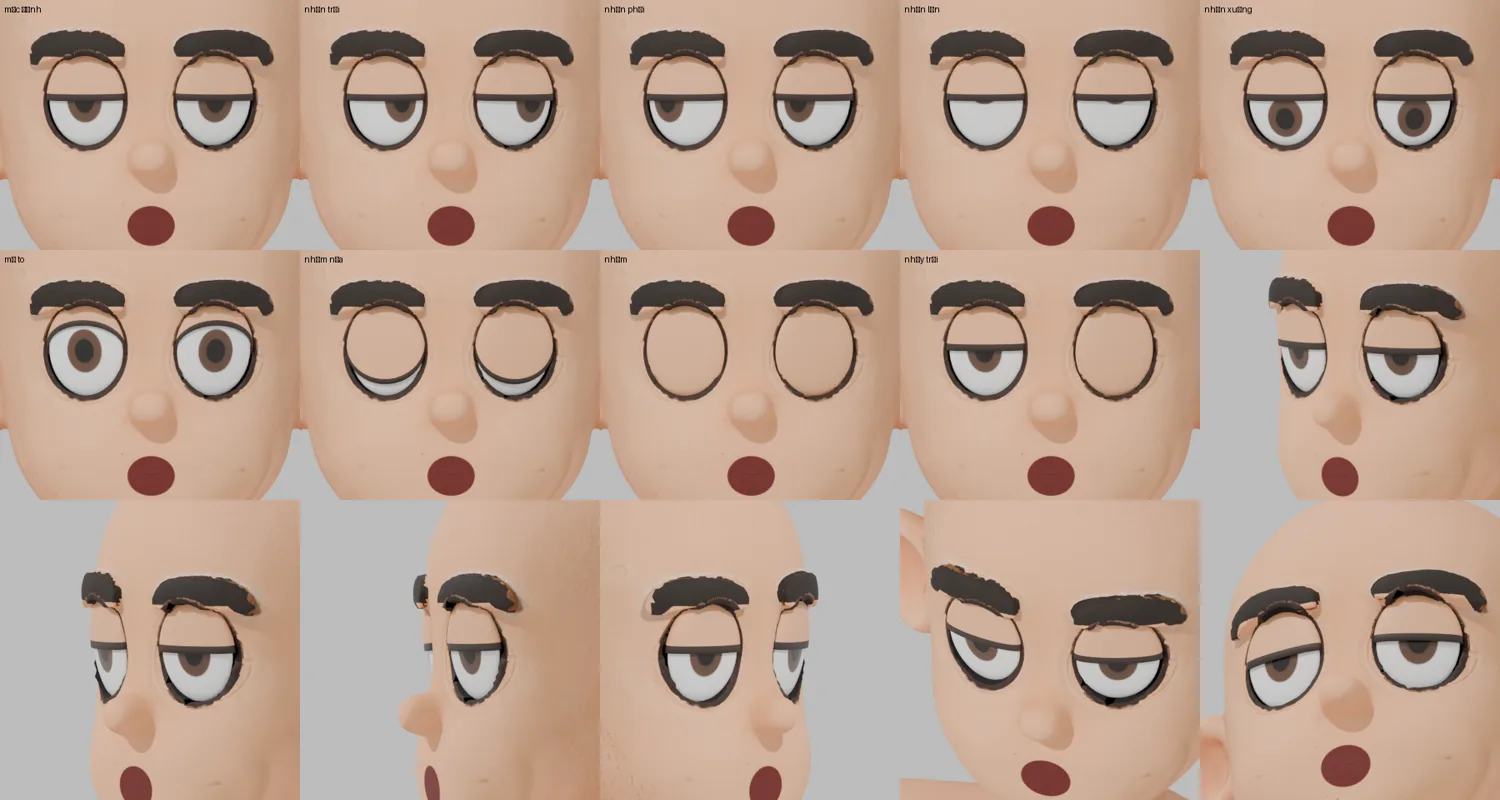
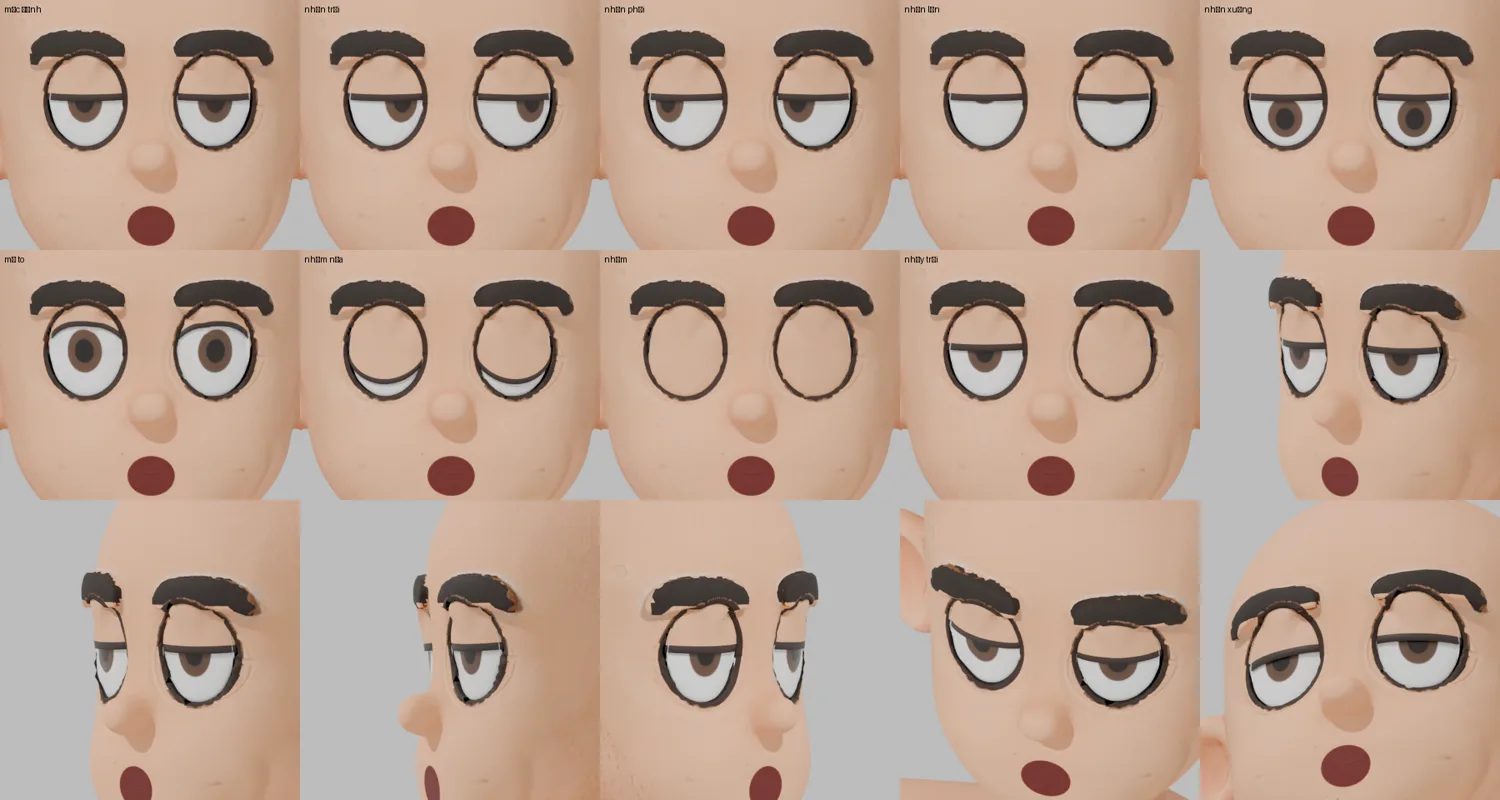
fix(nam-002): uốn mặt trước nhãn cầu/mí theo độ nhô của da mép hốc, hết lõm phía dưới
Claude-Session: https://claude.ai/code/session_015xtvRfLqUD2K9LfPtx8x7k

diff --git a/assets/nhan-vat-3d/nam-002/mat_nam002.py b/assets/nhan-vat-3d/nam-002/mat_nam002.py
@@ -79,8 +79,8 @@ def _eye_material(k):
     m = bpy.data.materials.new(f'nhan_cau.{k}'); m.use_nodes = True; nt = m.node_tree; nt.nodes.clear()
     out = nt.nodes.new('ShaderNodeOutputMaterial'); b = nt.nodes.new('ShaderNodeBsdfPrincipled'); nt.links.new(b.outputs[0], out.inputs[0])
     b.inputs['Roughness'].default_value = 0.25
-    tc = nt.nodes.new('ShaderNodeTexCoord')
-    sc_ = nt.nodes.new('ShaderNodeVectorMath'); sc_.operation = 'MULTIPLY'; sc_.inputs[1].default_value = (1 / E[0], 1 / E[1], 1 / E[2]); nt.links.new(tc.outputs['Object'], sc_.inputs[0])
+    tc = nt.nodes.new('ShaderNodeAttribute'); tc.attribute_name = 'goc'           # toạ độ trước khi uốn mép ⇒ con ngươi không méo
+    sc_ = nt.nodes.new('ShaderNodeVectorMath'); sc_.operation = 'MULTIPLY'; sc_.inputs[1].default_value = (1 / E[0], 1 / E[1], 1 / E[2]); nt.links.new(tc.outputs['Vector'], sc_.inputs[0])
     mp = nt.nodes.new('ShaderNodeMapping'); mp.name = 'huong_nhin'; mp.vector_type = 'VECTOR'; nt.links.new(sc_.outputs[0], mp.inputs['Vector'])
     nrm = nt.nodes.new('ShaderNodeVectorMath'); nrm.operation = 'NORMALIZE'; nt.links.new(mp.outputs[0], nrm.inputs[0])
     sp = nt.nodes.new('ShaderNodeSeparateXYZ'); nt.links.new(nrm.outputs[0], sp.inputs[0])
@@ -116,7 +116,7 @@ def _hemi(R, ang):
 
 LOI = 0.002      # mặt trước nhãn cầu nhô trước mặt phẳng mép hốc
 KHIT = 1.02      # nhãn cầu rộng hơn lỗ 2 % (vừa đủ che khe, không lấn nét viền vẽ)
-NGHIENG_DUOI = 15.0  # độ: ngả nhãn cầu quanh trục ngang để nửa dưới nhô ra (da gò má dưới mắt cao hơn)
+NGHIENG_DUOI = 0.0  # độ: ngả nhãn cầu quanh trục ngang để nửa dưới nhô ra (da gò má dưới mắt cao hơn)
 LUI_MEP = 0.0025 # ở mép lỗ, mặt nhãn cầu nằm sau mặt phẳng mép hốc chừng này
 
 
@@ -131,7 +131,24 @@ def _khung_mep(body, cx):
     za = n.cross(xa).normalized()                                # khung: x ngang, −y = n (ra ngoài), z lên
     M = Matrix((xa, -n, za)).transposed()
     if M.determinant() < 0: xa = -xa; M = Matrix((xa, -n, za)).transposed()
+    q = (P - c) @ np.array(M)                                   # toạ độ cục bộ của điểm mép; +y cục bộ = vào trong
+    th = np.arctan2(q[:, 2] / b_, q[:, 0] / a_); h = -q[:, 1]   # h > 0: da ở góc đó nhô ra trước mặt phẳng
+    o = np.argsort(th); print(f'  mép hốc nhô so với mặt phẳng: {h.min() * 1000:+.1f}…{h.max() * 1000:+.1f} mm')
+    global _MEP; _MEP = (th[o], h[o])
     return Vector(c), n, M, a_, b_
+
+
+_MEP = None
+
+
+def _uon(co, ax_, az_):
+    """Uốn phía trước: dời ra ngoài theo độ nhô của da mép tại cùng góc, tăng dần từ tâm (0) ra mép (1)."""
+    th0, h0 = _MEP
+    x, y, z = co.x, co.y, co.z
+    if y > 0: return co
+    th = math.atan2(z / az_, x / ax_); w = min(1.0, (x / ax_) ** 2 + (z / az_) ** 2)
+    h = float(np.interp(th, th0, h0, period=2 * np.pi))
+    return Vector((x, y - h * w, z))
 
 
 def tao_mat(sc, body):
@@ -146,7 +163,9 @@ def tao_mat(sc, body):
         ctr = c + n * (LOI - dep)
         me = bpy.data.meshes.new(f'NhanCau.{k}'); bm = bmesh.new(); bmesh.ops.create_uvsphere(bm, u_segments=64, v_segments=40, radius=R_NHAN)
         for v in bm.verts: v.co.x *= Ek[0]; v.co.y *= Ek[1]; v.co.z *= Ek[2]
-        bm.to_mesh(me); bm.free(); e = bpy.data.objects.new(f'NhanCau.{k}', me); sc.collection.objects.link(e)
+        goc = np.array([v.co[:] for v in bm.verts], np.float32)
+        for v in bm.verts: v.co = _uon(v.co, ax_, az_)
+        bm.to_mesh(me); me.attributes.new('goc', 'FLOAT_VECTOR', 'POINT').data.foreach_set('vector', goc.ravel()); bm.free(); e = bpy.data.objects.new(f'NhanCau.{k}', me); sc.collection.objects.link(e)
         e.matrix_world = Matrix.Translation(ctr) @ M.to_4x4()
         mat = _eye_material(k); mat.node_tree.nodes['Vector Math'].inputs[1].default_value = (1 / Ek[0], 1 / Ek[1], 1 / Ek[2])
         me.materials.append(mat)
@@ -155,7 +174,7 @@ def tao_mat(sc, body):
         bm = bmesh.new(); bmesh.ops.create_uvsphere(bm, u_segments=48, v_segments=32, radius=Rm)
         bmesh.ops.delete(bm, geom=[v for v in bm.verts if v.co.z < -1e-6], context='VERTS')
         edge = [v.co.z < 0.004 for v in bm.verts]; base = [v.co.copy() for v in bm.verts]
-        for v in bm.verts: v.co.x *= El[0]; v.co.y *= El[1]; v.co.z *= El[2]
+        for v in bm.verts: v.co.x *= El[0]; v.co.y *= El[1]; v.co.z *= El[2]; v.co = _uon(v.co, ax_ + 0.0012, az_ + 0.0012)
         lme = bpy.data.meshes.new(f'Mi.{k}'); bm.to_mesh(lme); bm.free()
         at = lme.attributes.new('mep_mi', 'FLOAT', 'POINT'); at.data.foreach_set('value', np.array(edge, np.float32))
         l = bpy.data.objects.new(f'Mi.{k}', lme); sc.collection.objects.link(l); l.matrix_world = Matrix.Translation(ctr) @ M.to_4x4()
@@ -163,7 +182,7 @@ def tao_mat(sc, body):
         for ang in GOC_MI[1:] + (-32.0,):
             kb = l.shape_key_add(name=f'mi_{int(ang):+d}', from_mix=False); R = Matrix.Rotation(math.radians(ang), 3, 'X')
             for i, p0 in enumerate(base):
-                q = R @ p0; kb.data[i].co = Vector((q.x * El[0], q.y * El[1], q.z * El[2]))
+                q = R @ p0; kb.data[i].co = _uon(Vector((q.x * El[0], q.y * El[1], q.z * El[2])), ax_ + 0.0012, az_ + 0.0012)
         sol = l.modifiers.new('day', 'SOLIDIFY'); sol.thickness = 0.0012; sol.offset = 1
         lme.materials.append(lm)
         for p in lme.polygons: p.use_smooth = True

diff --git a/assets/nhan-vat-3d/nam-002/README.md b/assets/nhan-vat-3d/nam-002/README.md
@@ -85,7 +85,7 @@ D:/blender/blender.exe -b --factory-startup --python di_bo_nam002.py -- --rig na
 Mắt vẽ trên texture đã được thay bằng mắt 3D, phần này nằm trong `mat_nam002.py` và được gọi từ `rig_nam002.py`.
 
 - **Hốc mắt:** khoét theo viền mắt vẽ. Viền là elip, tâm x = ±0,052 m, z = 1,5295 m, bán trục 34 × 40,5 mm, đo trên ảnh mặt nhìn thẳng. Mép lỗ được kéo về đúng elip cho trơn, rồi thụt vào trong 12 mm làm tường hốc màu tối. Nét viền vẽ được giữ lại làm mép hốc.
-- **Nhãn cầu:** đặt theo mặt phẳng của mép lỗ hốc. Mặt phẳng này được khớp từ các điểm trên da quanh lỗ và nghiêng khoảng 19° so với hướng nhìn thẳng, vì mặt cong ra hai bên. Nhãn cầu là hình bầu dục rộng hơn lỗ 2% (61 × 74 mm, sâu 11 mm). Mặt trước nhô 2 mm khỏi mép hốc, còn mép nhãn cầu nằm khuất sau mép hốc 2,5 mm, nên nhìn nghiêng không thấy lòng hốc. Nhãn cầu đứng yên. Khi liếc, chỉ con ngươi và tròng nâu trượt trên bề mặt, theo xương `nhin` (đặt trước mặt 45 cm, thuộc bone collection `Mat`). Dời `nhin` sang ngang hoặc lên xuống để đổi hướng nhìn.
+- **Nhãn cầu:** đặt theo mặt phẳng của mép lỗ hốc. Mặt phẳng này được khớp từ các điểm trên da quanh lỗ và nghiêng khoảng 19° so với hướng nhìn thẳng, vì mặt cong ra hai bên. Nhãn cầu là hình bầu dục rộng hơn lỗ 2% (61 × 74 mm, sâu 11 mm). Mặt trước nhô 2 mm khỏi mép hốc, còn mép nhãn cầu nằm khuất sau mép hốc 2,5 mm, nên nhìn nghiêng không thấy lòng hốc. Mép hốc không nằm trên một mặt phẳng: da quanh mắt lệch từ −5,4 đến +7,6 mm so với mặt phẳng khớp, phía dưới cao nhất vì gò má. Vì vậy mặt trước của nhãn cầu và mí được uốn theo độ nhô của da ở từng góc: tăng dần từ tâm (0) ra mép (đủ). Con ngươi đọc tọa độ trước khi uốn (thuộc tính `goc`) nên vẫn tròn. Nhãn cầu đứng yên. Khi liếc, chỉ con ngươi và tròng nâu trượt trên bề mặt, theo xương `nhin` (đặt trước mặt 45 cm, thuộc bone collection `Mat`). Dời `nhin` sang ngang hoặc lên xuống để đổi hướng nhìn.
 - **Mí trên:** vỏ bầu dục màu da, mép có dải đường mi tối. Mí đóng mở bằng shape key, nên luôn ôm sát nhãn cầu. Ở vị trí mặc định mí che nửa trên, giống mắt lim dim của mẫu.
 - **Điều khiển:** các thuộc tính trên xương `Head`, giá trị 0–1:
   - `chop_mat`: nhắm cả hai mắt;
